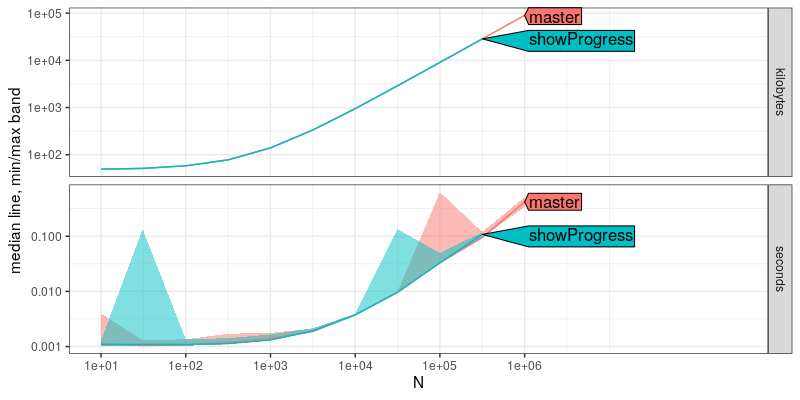
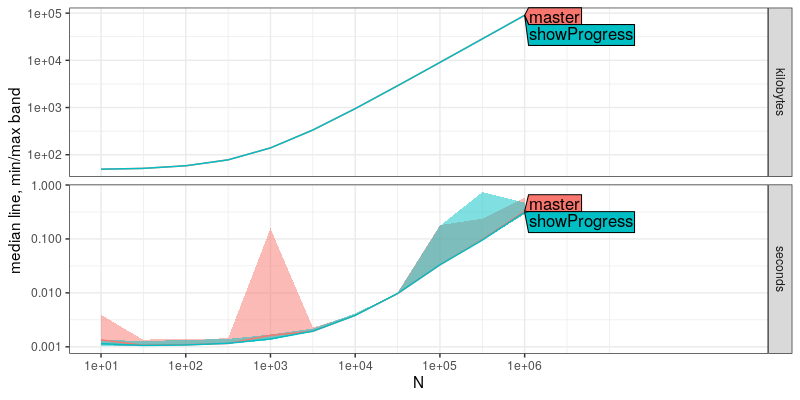
pred fig

diff --git a/_posts/2024-07-17-atime-showProgress.md b/_posts/2024-07-17-atime-showProgress.md
@@ -204,10 +204,6 @@ v.result <- atime::atime_versions(
   showProgress=pr.sha)
 ```
 
-```
-## Warning: Some expressions had a GC in every iteration; so filtering is disabled.
-```
-
 The code above contains a few new arguments:
 
 * `pkg.path` is the file path of a git repository containing an R package, in which we can find the `master` and `showProgress` commits,
@@ -242,22 +238,24 @@ Above we saw no performance differences between the different versions of the co
 
 
 ```r
-key.versions <- atime::atime_versions(
-  pkg.path="~/R/data.table",
-  pkg.edit.fun=edit.data.table,
-  N = 10^seq(1, 10, by=0.5),
-  setup = {
-    set.seed(1)
-    L = as.data.table(as.character(rnorm(N, 1, 0.5)))
-    setkey(L, V1)
-  },
-  ## New DT can safely retain key.
-  expr = {
-    data.table:::`[.data.table`(L, , .SD)
-  },
-  Fast = "353dc7a6b66563b61e44b2fa0d7b73a0f97ca461", # Close-to-last merge commit in the PR (https://github.com/Rdatatable/data.table/pull/4501/commits) that fixes the issue 
-  Slow = "3ca83738d70d5597d9e168077f3768e32569c790", # Circa 2024 master parent of close-to-last merge commit (https://github.com/Rdatatable/data.table/commit/353dc7a6b66563b61e44b2fa0d7b73a0f97ca461) in the PR (https://github.com/Rdatatable/data.table/pull/4501/commits) that fixes the issue 
-  Slower = "cacdc92df71b777369a217b6c902c687cf35a70d") # Circa 2020 parent of the first commit (https://github.com/Rdatatable/data.table/commit/74636333d7da965a11dad04c322c752a409db098) in the PR (https://github.com/Rdatatable/data.table/pull/4501/commits) that fixes the issue 
+overall.time <- system.time({
+  key.versions <- atime::atime_versions(
+    pkg.path="~/R/data.table",
+    pkg.edit.fun=edit.data.table,
+    N = 10^seq(1, 10, by=0.25),
+    setup = {
+      set.seed(1)
+      L = as.data.table(as.character(rnorm(N, 1, 0.5)))
+      setkey(L, V1)
+    },
+    ## New DT can safely retain key.
+    expr = {
+      data.table:::`[.data.table`(L, , .SD)
+    },
+    Fast = "353dc7a6b66563b61e44b2fa0d7b73a0f97ca461", # Close-to-last merge commit in the PR (https://github.com/Rdatatable/data.table/pull/4501/commits) that fixes the issue 
+    Slow = "3ca83738d70d5597d9e168077f3768e32569c790", # Circa 2024 master parent of close-to-last merge commit (https://github.com/Rdatatable/data.table/commit/353dc7a6b66563b61e44b2fa0d7b73a0f97ca461) in the PR (https://github.com/Rdatatable/data.table/pull/4501/commits) that fixes the issue 
+    Slower = "cacdc92df71b777369a217b6c902c687cf35a70d") # Circa 2020 parent of the first commit (https://github.com/Rdatatable/data.table/commit/74636333d7da965a11dad04c322c752a409db098) in the PR (https://github.com/Rdatatable/data.table/pull/4501/commits) that fixes the issue 
+})
 plot(key.versions)
 ```
 
@@ -290,6 +288,61 @@ atime::atime_versions(
 ```
 
 The error message tells us that `expr` should contain at least one instance of `data.table::` to replace with a version-specific package name, `data.table.353dc7a6b66563b61e44b2fa0d7b73a0f97ca461::`.
+
+Finally, we may wonder from the plot above, just how much faster is
+the new/Fast version of the code. Looking at the plot above, it is
+clear that it is quantitatively faster, but it is not clear
+quantitatively how much faster (10x or 100x?). To answer that
+question, we can use the predict method as below.
+
+
+```r
+key.refs <- atime::references_best(key.versions)
+key.pred <- predict(key.refs)
+plot(key.pred)
+```
+
+```
+## Warning in ggplot2::scale_x_log10("N", breaks = meas[, 10^seq(ceiling(min(log10(N))), : log-10 transformation
+## introduced infinite values.
+```
+
+![plot of chunk positiveControl-pred](/assets/img/2024-07-17-atime-showProgress/positiveControl-pred-1.png)
+
+The labels in the plot above show the estimated data size N which are possible to process within the 0.01 second time limit. It shows an estimate of the quantitative differences:
+
+* Slow is about 10x faster than Slower, and
+* Fast is about 10x faster than Slow.
+
+## Time required
+
+A final advantage to using `atime` is that it allows us to quickly see asymptotic performance differences between methods which are different by orders of magnitude.
+
+Using the atime approach above, we saw 100x differences (between Slower and Fast methods), but the overall computation time was only a few seconds, as shown below.
+
+
+```r
+overall.time
+```
+
+```
+##    user  system elapsed 
+##  20.838   0.227  24.435
+```
+
+How does that work? The secret is that atime keeps increasing N until
+the time goes over the limit for each method, and then we stop
+increasing N for that method. So the computation time for each method
+(and the overall time) is never significantly larger than the time
+limit.  That is true for at least for one trial/timing, but the
+default is to run 10 timings (user-controllable via the `times`
+argument). With the default time limit of 0.01, that means atime will
+by default take on the order of seconds overall (or less). Most of the time, this default time limit is large enough to see the asymptotic time complexity (not just the constant/overhead time which dominates in the small N regime). For some problems and hardware, this default may need to increase, but so far we have observed that this default is sufficient for seeing significant differences in several different kinds of problems.
+
+In contrast, the traditional method for performance comparison involves comparing the computational requirements for a given data size N (the opposite of the atime approach of comparing the data size N possible for a given time limit). Although that method is simpler to implement (using packages like `microbenchmark`), it is inherently more time intensive. For example, consider the atime default time limit of 0.01, with a time difference of 100x between methods. Using the traditional approach, assuming the fastest approach takes 0.01 seconds, the slowest approach would take 1 second, and so the overall time is controlled by the slowest approach (whereas the overall time is controlled by the time limit in the atime approach). 
+
+And often we have to choose a large N to see the asymptotic regime of
+the fastest method, so the overall time can be very slow. In the example above, N=1e4 is not large enough to escape the constant/overhead regime, so at least 1e5 is necessary, and maybe 1e6, which takes about 0.01 seconds. For the same data size, Slow takes about 0.1 seconds, and Slower takes about 1 second. And doing that 10 times would mean an overall time of 10-100 seconds, which is an order of magnitude slower than the atime approach (1-10 seconds overall).
 
 ## Conclusion
 
